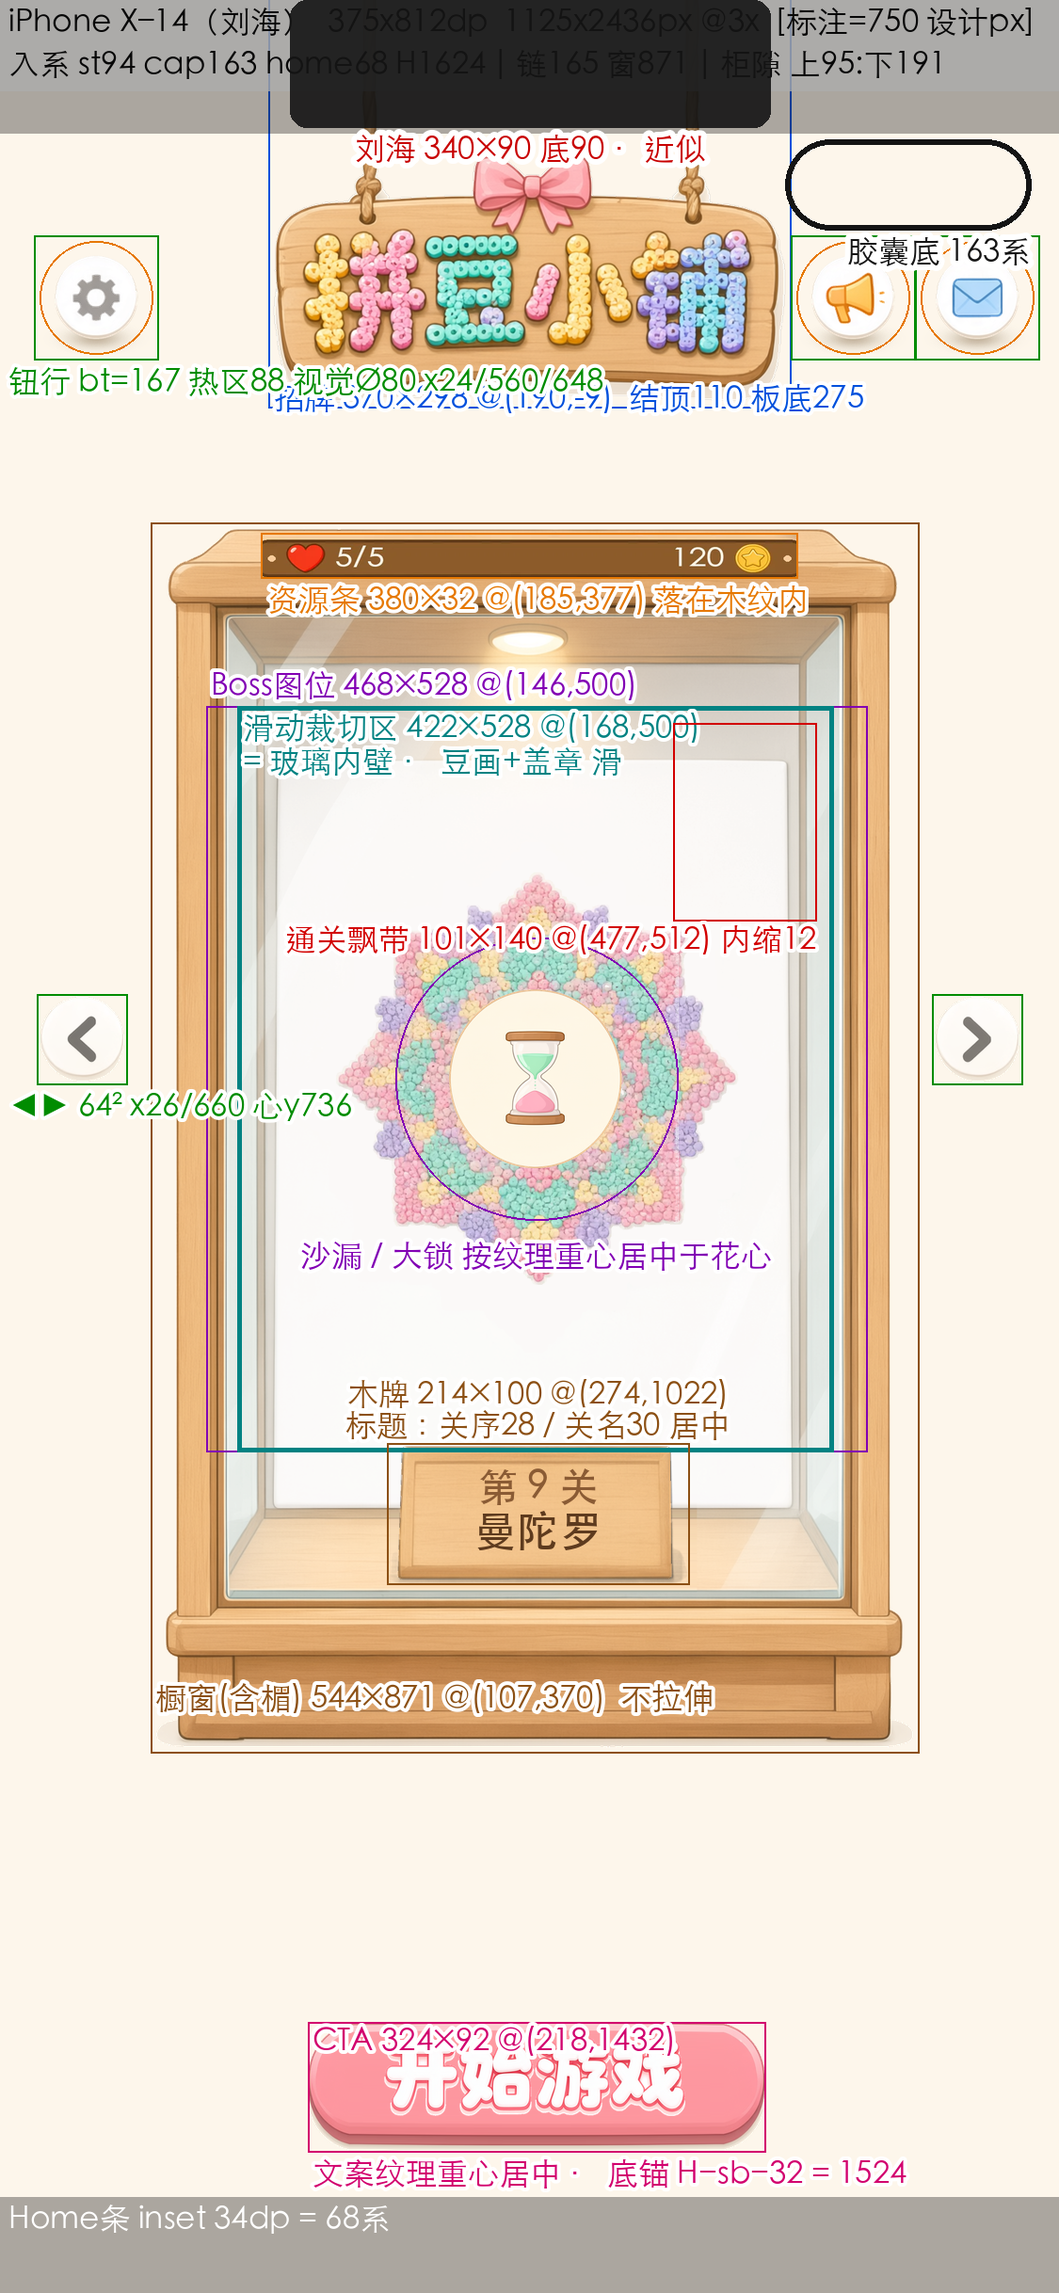
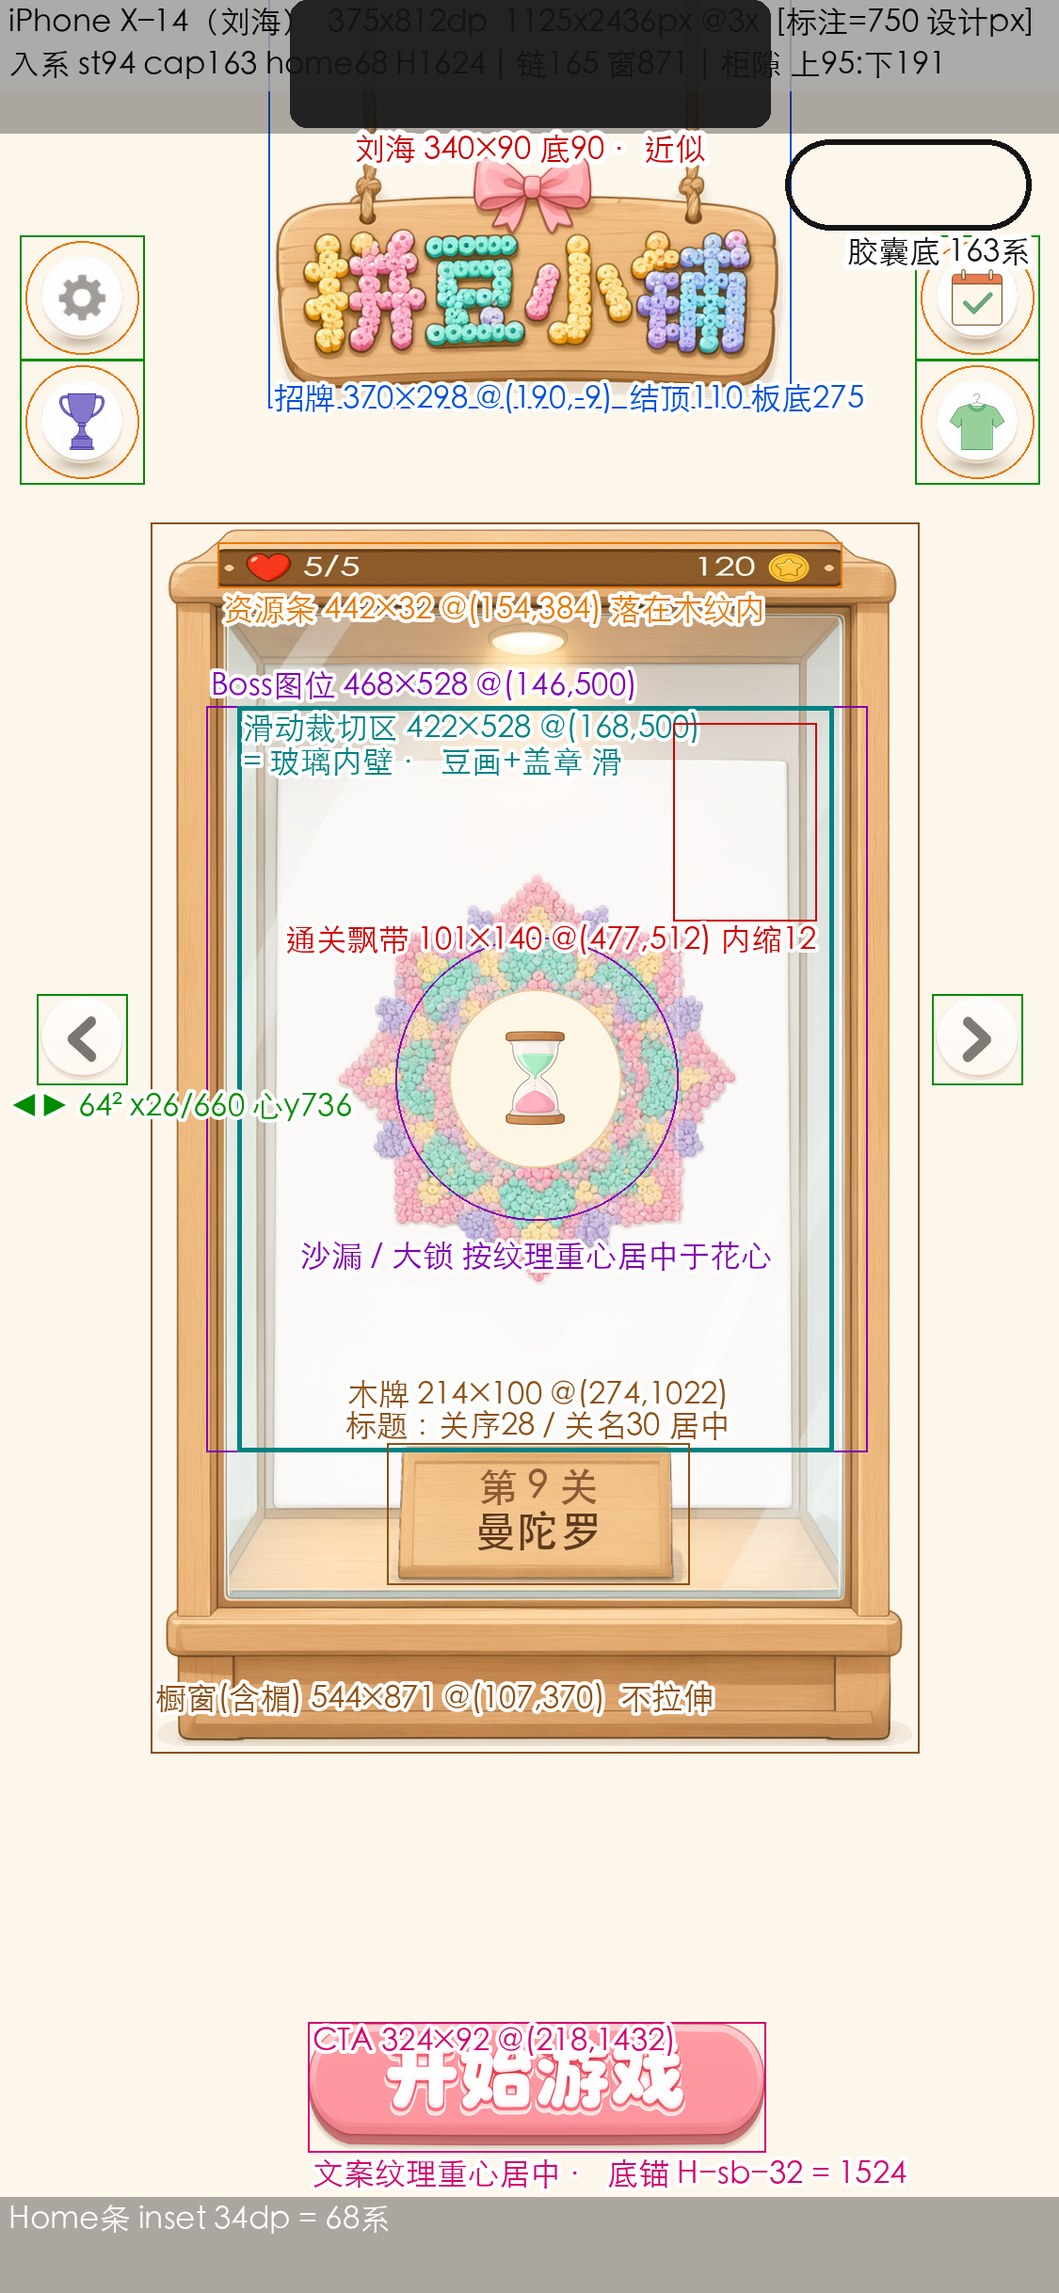
docs(beads): 坐标总图重烤为 2×2 四钮现势 (WXG-T-499)
用户 2026-10-29 选「1 + 看调整后的坐标图」。

脚本 menu-proto-coords.py 从三钮时代（x24/560/648，图标 settings/sound/mail）
改为 2×2 四钮：x 左 14 / 右 648，行距 88，图标 settings/rank/calendar/skin。

标题与图例同步到 v3.13；顶栏读数从画布内（压资源条）挪进右侧规范栏。

重烤 10 件：6 张坐标图 + 4 张原型帧；主图与 SE 档已目检。

零运行时改动（脚本只出标注图，真源仍 = tuning/layout.ts）。

diff --git a/games/beads/design/ai-workflows/menu-proto-coords.py b/games/beads/design/ai-workflows/menu-proto-coords.py
@@ -1,7 +1,7 @@
 #!/usr/bin/env python3
 # 主界面原型 v3（三态 + 走马灯示意帧）+ 坐标总图 + 五档机型坐标图，同一份合成底图（零模型，纯 PIL）。
-# 布局 = 落地单 v3.8（§8 走马灯）/ tuning.ts `menuAnchors`；素材 = final/assets/menu 正本（顶栏钮/徽标/木牌/箭头）
-# + proto-v2 切件（资源条、曼陀罗豆画）。标注单位 = 750 设计px（rpx 语义）。
+# 布局 = 落地单 v3.13 + WXG-T-497（签到钮日历 / 版本号进设置）/ WXG-T-498（顶栏左右对称）/ tuning.ts `menuAnchors`；
+# 素材 = final/assets/menu 正本（顶栏钮/徽标/木牌/箭头）+ proto-v2 切件（资源条、曼陀罗豆画）。标注单位 = 750 设计px（rpx 语义）。
 # 用法（仓库根）：python3 games/beads/design/ai-workflows/menu-proto-coords.py
 import os
 import numpy as np
@@ -38,7 +38,9 @@ PLATE_TITLE = (30, 62)                        # 两行行心距牌顶（关序 2
 # palette woodFace / woodEdge
 WOOD_FACE, WOOD_EDGE = (138, 91, 52), (94, 59, 30)
 ARROW_X, ARROW_D, ARROW_ICON = (26, 660), 64, 36
-TOPBAR_X, TOPBAR_D, HIT = (24, 560, 648), 80, 88
+# 顶栏 2×2 四钮（`MENU_TOPBAR_X`；[WXG-T-498] 对称后：左列 14 / 右列 648，行距 88 = `TOUCH_MIN`）
+TOPBAR_ITEMS = ((14, 0, "settings"), (14, 88, "rank"), (648, 0, "calendar"), (648, 88, "skin"))
+TOPBAR_ROW_DY, TOPBAR_D, HIT = 88, 80, 88
 CTA_X, CTA_W = 218, 324
 
 v2 = Image.open(PROTO_V2).convert("RGB")
@@ -176,9 +178,9 @@ def compose(g, s, state, w750=750, content=True, plate_text=PLATE_TEXT):
         put(ic, x + (ARROW_D - iw) / 2, y +
             (ARROW_D - ARROW_ICON) / 2, iw, ARROW_ICON)
     put(Image.open(LOGO), SIGN[0], g["bow0"] - SIGN[3], SIGN[1], SIGN[2])
-    # 顶栏三钮：圆底 + 图标同框 80（热区 88 同心）
-    for hx, icon in zip(TOPBAR_X, ("settings", "sound", "mail")):
-        x, y = hx + (HIT - TOPBAR_D) / 2, g["bt"] + (HIT - TOPBAR_D) / 2
+    # 顶栏四钮 2×2：圆底 + 图标同框 80（热区 88 同心；左列 14 / 右列 648，行距 88）
+    for hx, dy, icon in TOPBAR_ITEMS:
+        x, y = hx + (HIT - TOPBAR_D) / 2, g["bt"] + dy + (HIT - TOPBAR_D) / 2
         put(Image.open(f"{A}/ui_btn_circle_normal.png"),
             x, y, TOPBAR_D, TOPBAR_D)
         put(Image.open(f"{A}/ui_icon_{icon}.png"), x, y, TOPBAR_D, TOPBAR_D)
@@ -281,11 +283,9 @@ def annotate(cv, g, s, fs):
         rect(x, g["arrow_cy"] - ARROW_D / 2, ARROW_D, ARROW_D, green)
     lab(6, g["arrow_cy"] + 36,
         f"◀▶ 64² x{ARROW_X[0]}/{ARROW_X[1]} 心y{g['arrow_cy']:.0f}", green)
-    for hx in TOPBAR_X:
-        rect(hx, g["bt"], HIT, HIT, green)
-        circ(hx + HIT / 2, g["bt"] + HIT / 2, TOPBAR_D / 2, orange)
-    lab(6, g["bt"] + HIT + 4,
-        f"钮行 bt={g['bt']:.0f} 热区88 视觉Ø80 x24/560/648", green)
+    for hx, dy, _icon in TOPBAR_ITEMS:
+        rect(hx, g["bt"] + dy, HIT, HIT, green)
+        circ(hx + HIT / 2, g["bt"] + dy + HIT / 2, TOPBAR_D / 2, orange)
     rect(CTA_X, g["cta0"], CTA_W, CTA_H, pink,
          f"CTA 324×92 @(218,{g['cta0']:.0f})")
     lab(CTA_X + 3, g["cta0"] + CTA_H + 4,
@@ -316,7 +316,7 @@ def master(out, legend_w=330):
         d.text((102 * s, (ya + yb) / 2 * s - 11), txt, font=f, fill=(200, 0, 0),
                stroke_width=3, stroke_fill="white")
     rows = [
-        ("坐标总图 · 主界面 = 布局规范 v3.8", 32, (0, 0, 0)),
+        ("坐标总图 · 主界面 = 布局规范 v3.13", 32, (0, 0, 0)),
         ("SE 档 375×667dp · st40 · H1334 · @2x", 22, (80, 80, 80)),
         ("底图 = 原型 v3（推关中态），现役素材按规范落位", 22, (80, 80, 80)),
         ("标注 = 设计px（750 基准，dp = px/2）", 22, (80, 80, 80)),
@@ -330,6 +330,7 @@ def master(out, legend_w=330):
         (f"柜隙下 {g['gap_bot']:.0f} = 2 × 上", 22, (20, 20, 20)),
         (f"CTA 324×92 底锚 = H − sb − 32 → {g['cta1']}", 22, (20, 20, 20)),
         (f"钮行 bt = 胶囊底 {g['cap']} + 4 = {g['bt']}", 22, (20, 20, 20)),
+        ("顶栏 2×2：x 左 14 / 右 648，行距 88；热区 88 / 视觉 80", 22, (20, 20, 20)),
         ("", 22, None),
         ("橱窗三态（v3.8，随窗顶平移）：", 26, (130, 0, 180)),
         ("未开启：豆画置灰 + 大锁 220，重心对齐花心", 22, (20, 20, 20)),
@@ -349,11 +350,10 @@ def master(out, legend_w=330):
         ("逐机柜隙 上/下：SE 38/75 · And 130/259", 22, (0, 100, 20)),
         ("X-14 95/191 · 岛 94/188 · 16PM 101/203", 22, (0, 100, 20)),
         ("", 22, None),
-        ("! 本次改图（v3.7 → v3.8，链不变）：", 22, (150, 60, 0)),
-        ("  未开启：置灰 + 大锁居中", 22, (150, 60, 0)),
-        ("  进行中：原色 + 沙漏章居中", 22, (150, 60, 0)),
-        ("  通关：飘带收进裁切区右上（随内容滑）", 22, (150, 60, 0)),
-        ("  CTA 文案改艺术字纹理", 22, (150, 60, 0)),
+        ("! 本次改图（v3.13 → 现势，链不变）：", 22, (150, 60, 0)),
+        ("  顶栏 2×2 四钮；左列 24 → 14 做左右对称", 22, (150, 60, 0)),
+        ("  签到钮 = 日历 + 对勾（信封退役）", 22, (150, 60, 0)),
+        ("  版本号已进设置页脚「关于」，屏底无版本行", 22, (150, 60, 0)),
         ("", 22, None),
         ("■ 蓝 招牌 / 橙 资源条 / 棕 橱窗·木牌", 22, (60, 60, 60)),
         ("■ 紫 Boss图位 / 青 裁切区 / 红 飘带 / 粉 CTA", 22, (60, 60, 60)),

diff --git a/production/TASKS.md b/production/TASKS.md
@@ -2,7 +2,7 @@
 
 > **格式（WXG-T-064 起）：标题制 + 详情分片。** 本表**只留标题**（名称列 ≤ 60 字符，由 `pnpm run check:tasks` 机械强制）；任务正文在 `production/TASKS-DETAIL.md` 的 `## WXG-T-0NN` 小节。**读取协议**：领号/看状态只读本表（≈ 2.2k tok）；要某任务详情时，从 `ctx/index.json` 取该小节的 `startLine`/`endLine`，`read_file(path, offset, limit)` **只读那一节**（中位 ≈ 290 tok），**不要整读详情文件**。归档时**行与小节成对搬走**。
 > 单号递增不回收。任何会话（WorkBuddy/Cursor/Qoder/CodeBuddy）开工前**先读本文件领号**，完成后回填状态——根治跨 IDE 撞号（教训：2026-09-12 CodeBuddy 独立会话撞用 T-013/T-014）。
-> **领号（机械校准锚，供 `pnpm run tasks:archive` 校准用）**：当前已分配至 **WXG-T-498**，下一可用号 **WXG-T-499**（**沿革已外移**：每个已分配号的批次摘要、冲突披露与 ADR 编号表 → `production/archive/TASKS-ledger-notes.md`，2026-10-28 由 WXG-T-482 原文照搬迁出；动机 = 该段占台账 39,909 tok 而 `tasks:archive` 只搬表行、对它零效力 ⇒ 台账撞 80k 门。⛔ 日常领号只认本行数值，**不要**去读那份沿革）。
+> **领号（机械校准锚，供 `pnpm run tasks:archive` 校准用）**：当前已分配至 **WXG-T-499**，下一可用号 **WXG-T-500**（**沿革已外移**：每个已分配号的批次摘要、冲突披露与 ADR 编号表 → `production/archive/TASKS-ledger-notes.md`，2026-10-28 由 WXG-T-482 原文照搬迁出；动机 = 该段占台账 39,909 tok 而 `tasks:archive` 只搬表行、对它零效力 ⇒ 台账撞 80k 门。⛔ 日常领号只认本行数值，**不要**去读那份沿革）。
 > 勘误（2026-09-13）：本注此前长期停在「已分配至 T-032」而表内已排到 T-035，曾致撞号（教训见 memory 记录）；WXG-T-040 归档落地后改为——**领号认本注（下一可用号），本注由 `tasks:archive` 校准**为「主表 ∪ 归档全局最大号 + 1」（归档会把老行移出主表，只看主表最大号必重号）；手工领号后请顺手核对本注（可运行 `pnpm run tasks:archive` 校准，0 行时不落盘）。
 > **用过号未自登主表清单**（K-137 只披露不代填）：222 / 257 / 280·281 / 282 / 283 / 285 / 286·287 / 289 （291 已由 WXG-T-292 代收口自登；203–207 属区间披露）——逐条正文与补账口径见 `production/archive/TASKS-ledger-notes.md` §A 末段。⛔ 仍不代填，待各会话自登。
 
@@ -65,6 +65,7 @@
 | WXG-T-496 | beads·公告提示位裁定 = 零提示（U19③ 收口） | 主理人(Qoder)·设计轨 | ✅ **完成（2026-10-29）**（用户裁「先裁提示位：不做任何提示」⇒ 公告不点亮信封红点、⛔ 新点、⛔ 角标/闪烁/未读数；全局唯一提示位仍只由签到 `canClaim` 驱动，`MENU_SIGNIN_DOT_R` 与 `meta-menu.ts::drawTopbar` **一字未动**。**零代码、零几何、零新资产**；ux-spec **v1.36**：U19 ③ 闭账、「未定两事」→「未定一事」（仅剩 ② 面板实装节点）、约束②③收紧（⛔ 点亮现有点；§提示纪律待记「公告不提示」） | 见详情 |
 | WXG-T-497 | beads·签到钮换日历图标 + 版本号迁设置页脚 + 公告入口暂缓 | 主理人(Qoder)·美术/工程轨 | ✅ **完成（2026-10-29）**（用户三条口述：「版本信息放到设置里」「信封替换成专门做日历/礼盒 签到、每日奖励」「没有运营后台，暂时不需要这个入口」；版本位置经追问选「放到设置页面关于信息里」。① 图标四案选 **甲 日历+对勾** ⇒ 云 `qwen-image-3.0` seed 301 一张 **0.18 元**，切图 160²@2x（占宽 45% / 占高 50% / 不透明 5382 / 主色 `#FFF7E9`），四处接线 + `framework:sync` 5 件镜像，`.meta` 由 `build:cocos` 生成；信封 `iconMail` 转零消费者；② **版本号唯一落点 = 设置页脚 `关于 · vX.Y.Z`**（`SETTINGS_GRID.footerFromBottom = 30`，返回钮下方 6px；主菜屏底那份删、`versionY` 字段退场）；③ **U19② 面板实装 = 暂缓**（公告配置表保留空表）。**零 §3 常量、零顶栏几何改动**；ux-spec **v1.37** + 切图规格 **B10** + §12 登记；金样本四态重取） | 见详情 |
 | WXG-T-498 | beads·顶栏左右对称（左列 24 → 14） | 主理人(Qoder)·工程轨 | ✅ **完成（2026-10-29）**（用户选「1 = 顶栏左右对称」。**左列外移 10**、右列 648 不动 ⇒ 两侧热区距屏边 14、视觉圆距屏边 18，差额归零。为何不动右列 = 视觉左缘 652 与橱窗框右缘 651 仅 1px，内移会压柜体；左列外移反而把左侧视觉右缘 108（与橱窗左缘 107 重 1px）退到 98（净空 9px）。**零尺寸改动**（热区 88 / 视觉 80 / 行距 88 全不动）；`space_screen_edge=24` 只约束版面内容带，顶栏圆钮属浮层。改 `MENU_TOPBAR_X{settings,rank}` 两值 + 三处硬编码断言（menu-anchors / beads-shell）；金样本菜单族四态 sha 变、条数不变） | 见详情 |
+| WXG-T-499 | beads·坐标总图重烤（v3.8 → v3.13 现势） | 主理人(Qoder)·美术轨 | ✅ **完成（2026-10-29）**（用户选「1 + 看调整后的坐标图」。`menu-proto-coords.py` 从三钮时代（x24/560/648、图标 settings/sound/mail）改为 **2×2 四钮**（x 左14/右648、行距88、图标 settings/rank/calendar/skin）；标题与图例同步到 v3.13，顶栏读数从画布内（压资源条）挤入右侧规范栏。**零运行时改动**（脚本只标注）；重烤 6 张坐标图 + 4 张原型帧，主图与 SE 档已目检） | 见详情 |
 > 注 1：T-016/T-017 的产出实际由 CodeBuddy 侧会话完成（用户授权路径），本台账为跨 IDE 统一追认。
 > 注 2（第二次撞号追认）：CodeBuddy 会话后续又将 CI/CD 与 ADR-0009 误编为 016/017，已按 T-021/T-022 归位；其提交信息与任务单内嵌旧号不回改，以本台账为准。
 > 注 3：多会话并行时领号纪律——开工前读本文件取「下一可用号」并立即回填占位，完成后再更新状态行。

diff --git a/production/TASKS-DETAIL.md b/production/TASKS-DETAIL.md
@@ -4395,3 +4395,39 @@ WXG-T-493 收尾时给出的三个后续选项，用户 2026-10-29 选 **1 = 公
 ### 5. 沉淀统计
 
 **未跑 `kb:sync`**（`knowledge/` 仍含并行会话 WXG-T-434 在制品，K-137）。候选 1 条：「对称需求先核另一侧的硬约束：本例右侧被橱窗 1px 卡死，只能把左侧外移；而外移后的左列反而离橱窗更远 → 对称与净空同时改善」。统计 = 新增 0 / 修改 0 / 激活 0 / 归档 0（本批）。
+
+---
+
+## WXG-T-499
+
+### 1. 触发
+
+用户 2026-10-29 选「1 + 看调整后的坐标图」⇒ 重烤坐标总图，把 T-497（签到日历 / 版本号进设置页脚）与 T-498（左列 14 对称）反映到图上。
+
+### 2. 脚本改动（`design/ai-workflows/menu-proto-coords.py`，零运行时）
+
+| 项 | 旧（v3.8 三钮时代） | 新（现势） |
+| --- | --- | --- |
+| 顶栏坐标 | `TOPBAR_X = (24, 560, 648)` | `TOPBAR_ITEMS` = **(14, 0, settings) / (14, 88, rank) / (648, 0, calendar) / (648, 88, skin)**；`TOPBAR_ROW_DY = 88` |
+| 图标 | settings / sound / mail | settings / rank / **calendar** / skin（信封退役） |
+| 绘制 | 单行三钮 | 2×2 四钮（行2 y + 88） |
+| 标注 | 画布内一行「x24/560/648」压资源条 | 挤入右侧规范栏：「顶栏 2×2：x 左 14 / 右 648，行距 88；热区 88 / 视觉 80」 |
+| 标题 | 布局规范 v3.8 | **v3.13**；图末「本次改图」改为四钮 2×2 / 日历 / 版本号进设置三条 |
+
+### 3. 输出（10 件，均重烤）
+
+- `design/art/final/coordinates/`：`menu-master-coords.png`（2160×2668）+ `menu-coords-{se375,android360,iphonex375,island393,max440}.png`
+- `design/art/final/prototypes/`：`proto-v3-{pushing,locked,done,swipe}-750x1334-at2x.png`
+
+### 4. 目检
+
+- 主图：顶栏 2×2 四钮位置正确（左 14 / 右 648）、右上为日历、右下为衣架；规范栏读数完整不截断；画布内不再有压资源条的标注。
+- SE 档：同样四钮落位正确，缩放与标注未破。
+
+### 5. 红线自证
+
+**零运行时改动**（脚本只出标注图，不入包、不接线）；零 §3 冻结常量、零资产新增；真源仍 = `tuning/layout.ts`（图上已印「本图只标注，不驱动运行时」）。
+
+### 6. 沉淀统计
+
+**未跑 `kb:sync`**（`knowledge/` 仍含并行会话 WXG-T-434 在制品，K-137）。候选 1 条：「坐标标注图要与代码同源更新：脚本里硬编码的坐标会随裁定过期，重烤前先 grep 一遍旧坐标值（本例 24/560/648 已停用两个月）」。统计 = 新增 0 / 修改 0 / 激活 0 / 归档 0（本批）。

diff --git a/ctx/hot-files.md b/ctx/hot-files.md
@@ -25,9 +25,9 @@
 
 §wechatgame 项目长期笔记=1+81 · §日志蒸馏规程（R2 · WXG-T-0…=7+6 · §项目约定=13+22 · §常用脚本=35+11 · §SubAgent=46+4 · §Rules=50+3 · §Hooks=53+7 · §Headless / CI=60+8 · §已知限制=68+14
 
-## `production/TASKS.md` — 106 行 / 21130 tok / 实测读 4 次
+## `production/TASKS.md` — 107 行 / 21307 tok / 实测读 4 次
 
-§WXG 任务台账（SSOT）=1+107 · §待排（backlog，无号，立项时领取…=79+29
+§WXG 任务台账（SSOT）=1+108 · §待排（backlog，无号，立项时领取…=80+29
 
 ## `production/qa/beads/test-cases.md` — 63 行 / 3722 tok / 实测读 15 次
 
@@ -103,10 +103,10 @@
 §knowledge/ — 工作室知识库…=1+313 · §1 读取协议（开发前期）=7+10 · §2 写入协议（任务收尾）=17+28 · §3 文件分工=45+10 · §4 维护=55+12 · §5 生命周期（访问记账 → 归档 → …=67+41 · §6 活跃条目（自动生成）=108+206
 > 本表只列 7 / 11 节：其余 4 节 → ctx/index.json（按 path 取 `sections[].anchor` / `startLine`，勿整读）。
 
-## `production/TASKS-DETAIL.md` — 4397 行 / 140743 tok
+## `production/TASKS-DETAIL.md` — 4433 行 / 141372 tok
 
-§WXG 任务台账 · 详情（标题制正文…=1+4398 · §WXG-T-487=3806+57 · §WXG-T-488=3863+77 · §WXG-T-489=3940+43 · §WXG-T-490=3983+32 · §WXG-T-491=4015+61 · §WXG-T-492=4076+49 · §WXG-T-493=4125+60 · §WXG-T-494=4185+59 · §WXG-T-495=4244+38 · §WXG-T-496=4282+34 · §WXG-T-497=4316+48 · §WXG-T-498=4364+35
-> 本表只列 13 / 337 节：其余 324 节 → ctx/index.json（按 path 取 `sections[].anchor` / `startLine`，勿整读）。
+§WXG 任务台账 · 详情（标题制正文…=1+4434 · §WXG-T-488=3863+77 · §WXG-T-489=3940+43 · §WXG-T-490=3983+32 · §WXG-T-491=4015+61 · §WXG-T-492=4076+49 · §WXG-T-493=4125+60 · §WXG-T-494=4185+59 · §WXG-T-495=4244+38 · §WXG-T-496=4282+34 · §WXG-T-497=4316+48 · §WXG-T-498=4364+37 · §WXG-T-499=4401+34
+> 本表只列 13 / 344 节：其余 331 节 → ctx/index.json（按 path 取 `sections[].anchor` / `startLine`，勿整读）。
 
 ## `games/breakout/design/concept.md` — 143 行 / 3113 tok / 实测读 217 次
 

diff --git a/ctx/BUDGET.md b/ctx/BUDGET.md
@@ -23,7 +23,7 @@
 | # | 文件 | tokens | 行数 | tier |
 |---:|---|---:|---:|:--:|
 | 1 | `games/beads/design/gdd/powerups-v2.md` | 144877 | 2328 | normal |
-| 2 | `production/TASKS-DETAIL.md` | 140743 | 4397 | normal |
+| 2 | `production/TASKS-DETAIL.md` | 141372 | 4433 | normal |
 | 3 | `games/beads/design/art/specs/assets-spec.md` | 121738 | 2109 | normal |
 | 4 | `production/qa/beads/g4-regression-report.md` | 86807 | 2201 | normal |
 | 5 | `games/beads/design/ux/ux-spec.md` | 59479 | 557 | normal |
@@ -39,7 +39,7 @@
 | 15 | `memory/2026-10-04.md` | 28255 | 930 | normal |
 | 16 | `games/beads/design/gdd/save-progress.md` | 26135 | 305 | normal |
 | 17 | `games/beads/design/proposals/star-economy-and-retention.md` | 22195 | 763 | normal |
-| 18 | `production/TASKS.md` | 21130 | 106 | hot |
+| 18 | `production/TASKS.md` | 21307 | 107 | hot |
 | 19 | `games/beads/design/gdd/input-control.md` | 19665 | 206 | normal |
 | 20 | `knowledge/CHANGELOG.md` | 19468 | 611 | normal |
 
